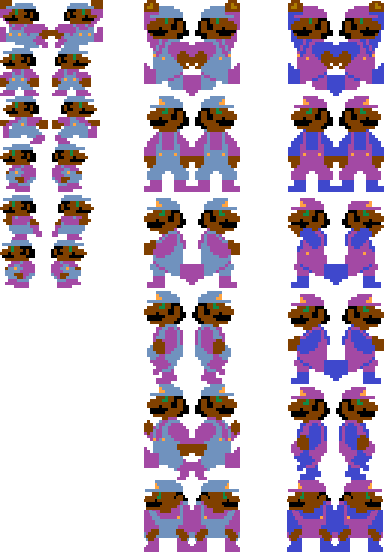
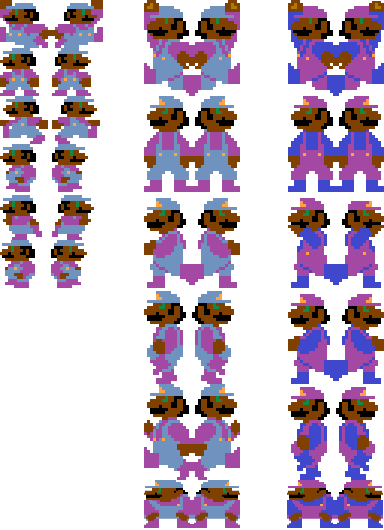
Sitting style 80% done.

diff --git a/src/SuperMario/input/ImageLoader.java b/src/SuperMario/input/ImageLoader.java
@@ -127,7 +127,7 @@ public class ImageLoader {
             height = 96;
         }
 
-        return getHeroForms(leftFrames, col, width, height);
+        return getHeroForms(leftFrames, heroForm, col, width, height);
     }
 
     public BufferedImage[] getHeroRightFrames(int heroForm) {
@@ -151,16 +151,16 @@ public class ImageLoader {
             height = 96;
         }
 
-        return getHeroForms(rightFrames, col, width, height);
+        return getHeroForms(rightFrames, heroForm, col, width, height);
     }
 
-    private BufferedImage[] getHeroForms(BufferedImage[] rightFrames, int col, int width, int height) {
+    private BufferedImage[] getHeroForms(BufferedImage[] rightFrames, int heroForm, int col, int width, int height) {
         for (int i = 0; i < 6; i++) {
             if (i < 5) {
                 rightFrames[i] = heroForms.getSubimage((col - 1) * width, (i) * height, width, height);
             }
             if (i == 5) {
-                rightFrames[i] = heroForms.getSubimage((col - 1) * width, (i) * height, width, 72);
+                rightFrames[i] = heroForms.getSubimage((col - 1) * width, (i) * height, width, 50);
             }
         }
         return rightFrames;

diff --git a/src/SuperMario/model/hero/Hero.java b/src/SuperMario/model/hero/Hero.java
@@ -83,7 +83,7 @@ public abstract class Hero extends GameObject {
     public void sit() {
         if (isSuper() && !isJumping()) {
             isSitting = true;
-            getDimension().height = 72;
+            getDimension().height = 50;
         }
     }
 
